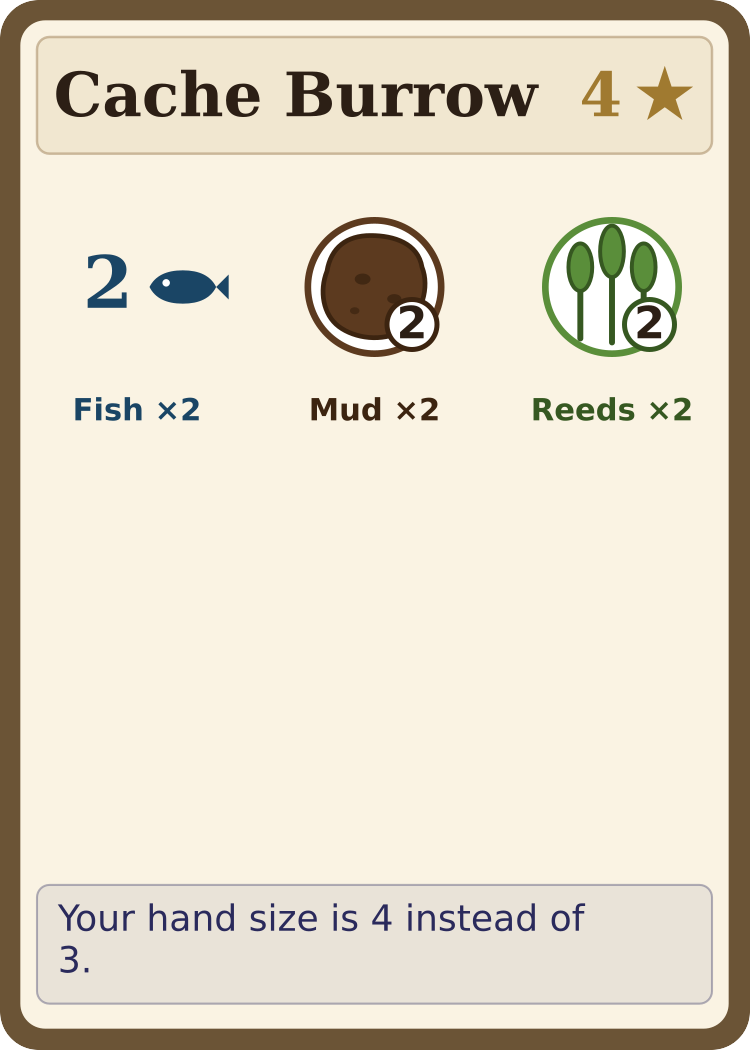
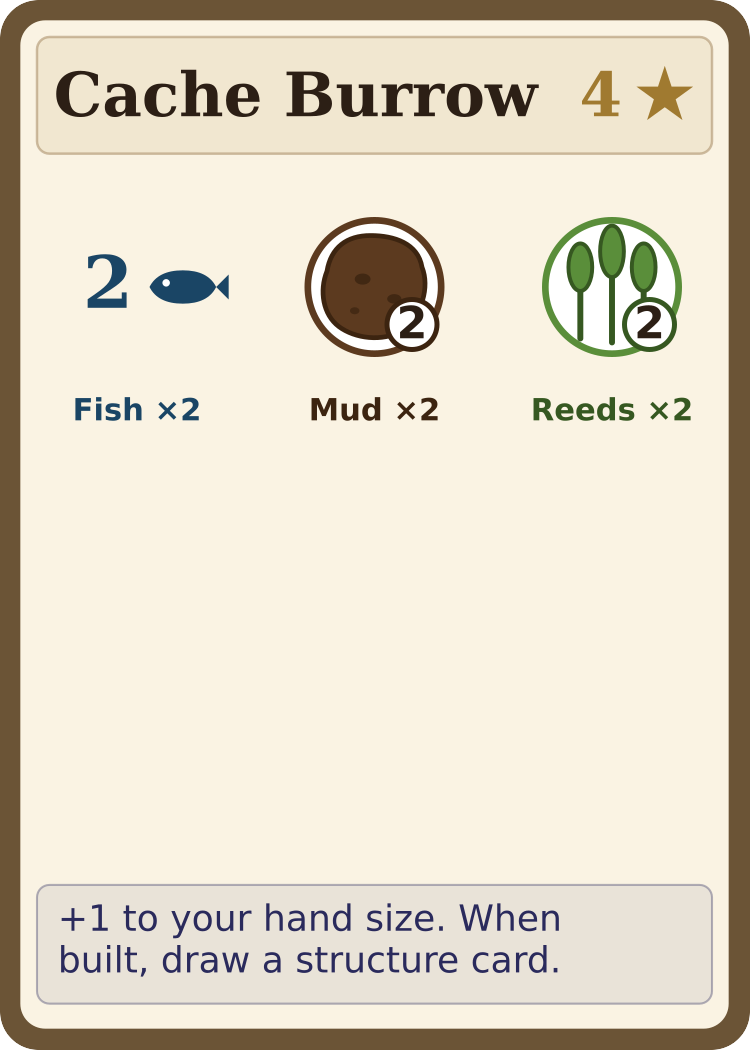
Cache Burrow: stack hand-size bonus (+1 each, fill slot on build)
Both Cache Burrow cards (main deck + beaver starter) change from "hand size
is 4 instead of 3" (capped at 4) to "+1 to your hand size. When built, draw a
structure card." maxHandSize now counts built copies, so two stack to 5.

The build action already refills up to hand size, so a mid-game Cache Burrow
fills its new slot on the same turn. Added a setup top-up after species
starters are pre-built so a beaver who drafts Cache Burrow opens with 4 cards.
Regenerated both card PNGs; reworded the rulebook Build refill text.

Changed region(s): [[0.0613, 0.8533, 0.7973, 0.9448]]

diff --git a/web/index.html b/web/index.html
@@ -1824,7 +1824,7 @@ const STRUCTURE_TEMPLATES = [
   { name: 'Reed Bed',       cost: { reeds: 3, mud: 1 },              time: 2, vp: 4, effect: 'Reed icons cost you 1 less 🐟 per item (min 1).' },
   { name: 'Mud Levee',      cost: { mud: 3, stones: 2 },             time: 3, vp: 6, effect: 'When built: drop 2 blanks on uncovered icons in the river.' },
   { name: 'Otter Slide',    cost: { mud: 2, logs: 1 },               time: 1, vp: 2, effect: 'When you build: advance 3 fewer 🐟 (min 1).' },
-  { name: 'Cache Burrow',   cost: { mud: 2, reeds: 2 },              time: 2, vp: 4, effect: 'Your hand size is 4 instead of 3.' },
+  { name: 'Cache Burrow',   cost: { mud: 2, reeds: 2 },              time: 2, vp: 4, effect: '+1 to your hand size. When built, draw a structure card.' },
   { name: 'Vine Lattice',   cost: { vines: 3, reeds: 2 },            time: 3, vp: 5, effect: 'When built: draw 3 structure cards, keep 1, discard 2.' },
   { name: 'Charcoal Pit',   cost: { clay: 4, logs: 2 },              time: 3, vp: 6, effect: 'When you build: 1 of your Clay workers may substitute for any other material.' },
   { name: 'Lookout Tree',   cost: { logs: 5, stones: 2 },            time: 4, vp: 8, effect: 'Peek at the top of the material deck at any time.' },
@@ -1873,7 +1873,7 @@ const STRUCTURE_TEMPLATES = [
   // Beaver (Logs bias)
   { name: 'Lodge Foundation', cost: { logs: 0 },                       time: 0, vp: 1, species: 'beaver', effect: 'When you build a structure that uses Logs, advance 1 fewer fish (min 1).' },
   { name: 'Tail Slap',        cost: { logs: 0 },                       time: 0, vp: 2, species: 'beaver', effect: 'At the start of your turn, you may pay 1🐟 to drop a blank on any uncovered icon on a River 1 card.' },
-  { name: 'Cache Burrow',     cost: { logs: 0 },                       time: 0, vp: 1, species: 'beaver', effect: 'Your hand size is 4 instead of 3.' },
+  { name: 'Cache Burrow',     cost: { logs: 0 },                       time: 0, vp: 1, species: 'beaver', effect: '+1 to your hand size. When built, draw a structure card.' },
   // River Otter (Reeds bias)
   { name: 'Kelp Bed',         cost: { logs: 0 },                       time: 0, vp: 0, species: 'otter',  effect: 'Reeds icons cost you 1 less fish per item (min 1).' },
   { name: 'Rolling Float',    cost: { logs: 0 },                       time: 0, vp: 1, species: 'otter',  effect: 'Once per game, swap one of your workers on a river card with another worker on a different card in the same river slot. No fish cost.' },
@@ -1927,7 +1927,10 @@ function oncePerGameUsed(p, name) {
   if (name === 'Spring Cascade'   && p.springCascadeUsed) return true;
   return false;
 }
-function maxHandSize(p) { return 3 + (hasEffect(p, 'Cache Burrow') ? 1 : 0); }
+// Cache Burrow stacks: +1 hand size per built copy (beaver starter + main deck).
+function maxHandSize(p) {
+  return 3 + (effectActive('Cache Burrow') ? p.built.filter(s => s.name === 'Cache Burrow').length : 0);
+}
 // Returns { base, bonuses: [{name, vp, detail}], total } for end-of-game scoring.
 // `base` is the printed-VP sum of built structures; each bonus describes one
 // end-game scoring effect that fired (positive or zero).
@@ -2631,6 +2634,13 @@ function startGame() {
         .sort((a, b) => b.w - a.w);
       p.built.push(ranked[0].c);
     }
+    // Top up opening hands now that AI starters are pre-built — a drafted
+    // Cache Burrow raises hand size to 4, so draw the extra card immediately.
+    // (The human's top-up runs after their draft modal resolves.)
+    for (const p of players) {
+      if (p.isHuman) continue;
+      while (p.hand.length < maxHandSize(p) && structDeck.length) p.hand.push(structDeck.pop());
+    }
   }
 
   // No starting river cards — the river populates as cards are pulled out of the upstream queue.
@@ -2714,6 +2724,10 @@ async function runHumanSpeciesDraft() {
   );
   if (picked) {
     human.built.push(picked);
+    // A drafted Cache Burrow raises hand size to 4 — top up immediately.
+    while (human.hand.length < maxHandSize(human) && structAvailable(state) > 0) {
+      human.hand.push(popStructDeck(state));
+    }
     log(`${human.species.emoji} ${speciesLabel(human)} drafts <b>${picked.name}</b>.`);
     render();
   }

diff --git a/sim.js b/sim.js
@@ -28,7 +28,7 @@ const BASE_STRUCTURE_TEMPLATES = [
   { name: 'Reed Bed',       cost: { reeds: 3, mud: 1 },              time: 2, vp: 4, effect: 'Reed icons cost you 1 less 🐟 per item (min 1).' },
   { name: 'Mud Levee',      cost: { mud: 3, stones: 2 },             time: 3, vp: 6, effect: 'When built: drop 2 blanks on uncovered icons in the river.' },
   { name: 'Otter Slide',    cost: { mud: 2, logs: 1 },               time: 1, vp: 2, effect: 'When you build: advance 3 fewer 🐟 (min 1).' },
-  { name: 'Cache Burrow',   cost: { mud: 2, reeds: 2 },              time: 2, vp: 4, effect: 'Your hand size is 4 instead of 3.' },
+  { name: 'Cache Burrow',   cost: { mud: 2, reeds: 2 },              time: 2, vp: 4, effect: '+1 to your hand size. When built, draw a structure card.' },
   { name: 'Vine Lattice',   cost: { vines: 3, reeds: 2 },            time: 3, vp: 5, effect: 'When built: draw 3 structure cards, keep 1, discard 2.' },
   { name: 'Charcoal Pit',   cost: { clay: 4, logs: 2 },              time: 3, vp: 6, effect: 'When you build: 1 of your Clay workers may substitute for any other material.' },
   { name: 'Lookout Tree',   cost: { logs: 5, stones: 2 },            time: 4, vp: 8, effect: 'Peek at the top of the material deck at any time.' },
@@ -77,7 +77,7 @@ const BASE_STRUCTURE_TEMPLATES = [
   // Beaver (Logs bias)
   { name: 'Lodge Foundation', cost: { logs: 0 },                       time: 0, vp: 1, species: 'beaver', effect: 'When you build a structure that uses Logs, advance 1 fewer fish (min 1).' },
   { name: 'Tail Slap',        cost: { logs: 0 },                       time: 0, vp: 2, species: 'beaver', effect: 'At the start of your turn, you may pay 1 fish to drop a blank on any uncovered icon on a River 1 card.' },
-  { name: 'Cache Burrow',     cost: { logs: 0 },                       time: 0, vp: 1, species: 'beaver', effect: 'Your hand size is 4 instead of 3.' },
+  { name: 'Cache Burrow',     cost: { logs: 0 },                       time: 0, vp: 1, species: 'beaver', effect: '+1 to your hand size. When built, draw a structure card.' },
   // River Otter (Reeds bias)
   { name: 'Kelp Bed',         cost: { logs: 0 },                       time: 0, vp: 0, species: 'otter',  effect: 'Reeds icons cost you 1 less fish per item (min 1).' },
   { name: 'Rolling Float',    cost: { logs: 0 },                       time: 0, vp: 1, species: 'otter',  effect: 'Once per game, swap one of your workers on a river card with another worker on a different card in the same river slot. No fish cost.' },
@@ -153,7 +153,10 @@ function matEndGameVP(p, cardName, defaultMult, defaultCap, materialKey) {
   const count = p.built.filter(b => (b.cost[materialKey] || 0) > 0).length;
   return Math.min(cap, mult * count);
 }
-function maxHandSize(p) { return 3 + (hasEffect(p, 'Cache Burrow') ? 1 : 0); }
+// Cache Burrow stacks: +1 hand size per built copy (beaver starter + main deck).
+function maxHandSize(p) {
+  return 3 + (effectActive('Cache Burrow') ? p.built.filter(s => s.name === 'Cache Burrow').length : 0);
+}
 function totalVP(p, state) {
   let v = p.built.reduce((s, b) => s + b.vp, 0);
   if (hasEffect(p, 'Pier')) {
@@ -921,6 +924,12 @@ function newGame(numPlayers, workersPerPlayer = null) {
       picked = ranked[0].c;
     }
     p.built.push(picked);
+  }
+  // Top up opening hands to each player's hand size now that starters are
+  // pre-built — the beaver's Cache Burrow starter raises their hand size to 4,
+  // so they draw the extra card immediately rather than waiting for a build.
+  for (const p of players) {
+    while (p.hand.length < maxHandSize(p) && structDeck.length) p.hand.push(structDeck.pop());
   }
   // Test harness: give a free turn-1 starter (printed VP 0) to one player
   // (INJECT_STARTER_PLAYER >= 0) or to ALL players (=== -2), to measure the

diff --git a/rulebook/rulebook.html b/rulebook/rulebook.html
@@ -853,7 +853,7 @@
       For each material listed, pick up that many of <em>your</em> workers from cards of the matching
       type and return them to your supply. Drop a blank on each uncovered river-card icon. (Shoreline
       cards don't need blanks.) Place the structure face-up in front of you for scoring, then draw a
-      replacement structure card so your hand returns to 3.
+      replacement structure card so your hand returns to your hand size (normally 3; Cache Burrow raises it).
     </p>
   </div>
 </div>